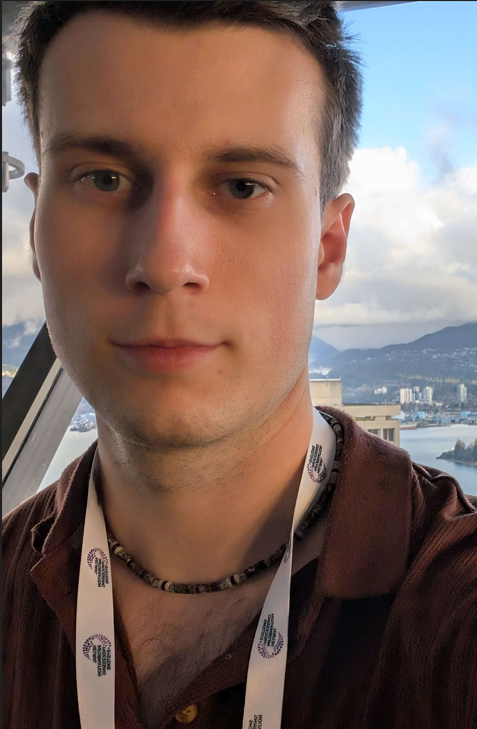
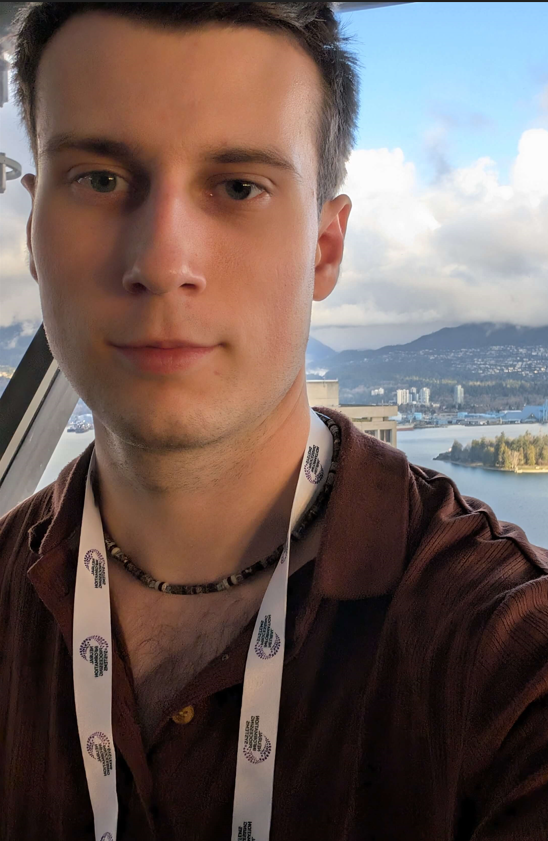
fixed cropping for my pic

diff --git a/css/styles.css b/css/styles.css
@@ -669,7 +669,7 @@ footer {
 }
 
 .avatar-adjust {
-    object-position: 65% center;
+    object-position: 65% -5%;
 }
 
 .name {
